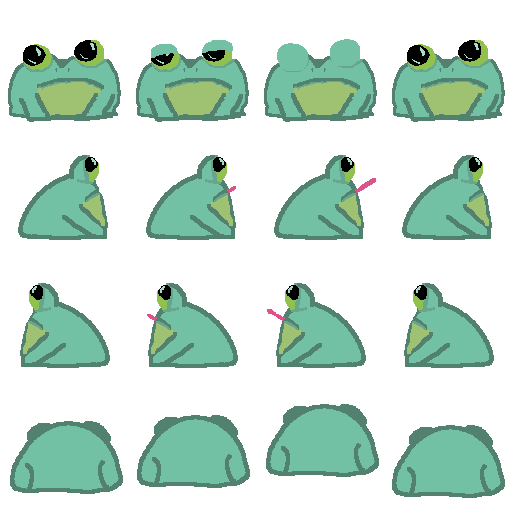
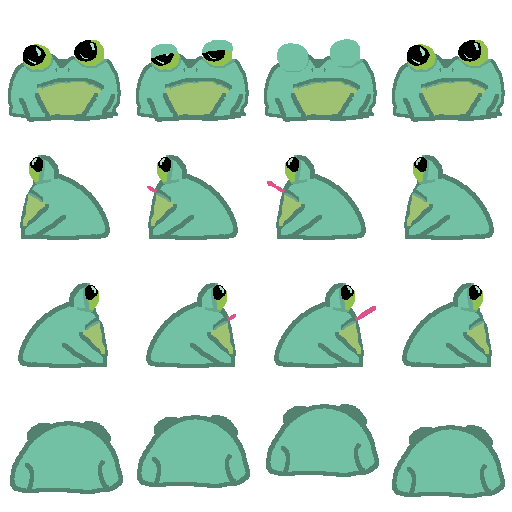
balanced arctic

diff --git a/src/core/lab/GenomeMaker.java b/src/core/lab/GenomeMaker.java
@@ -1,5 +1,6 @@
 package core.lab;
 
+import core.Game;
 import core.Main;
 import core.buttons.Button;
 import core.ecosystems.general.Organism;
@@ -20,7 +21,7 @@ public class GenomeMaker extends LabScreen {
     {
         super();
         machineButton = new LabMachineButton((int)(Main.getScreenWidth()*.05f), (int)(Main.getScreenHeight()*.3f),
-                Images.genomeMaker.getScaledCopy((int)(Main.getScreenWidth()*.2f), (int)(Main.getScreenWidth()*.2)));
+                Images.genomeMaker.getScaledCopy((int)(Main.getScreenWidth()*.2f), (int)(Main.getScreenWidth()*.2)), 1);
         screenButtons = new ArrayList<Button>();
         id = 1;
     }
@@ -40,8 +41,8 @@ public class GenomeMaker extends LabScreen {
             g.setColor(Color.black);
             g.setFont(Fonts.big);
             g.drawString("GENOME MAKER", x+Main.getScreenWidth()*.11f, y+Main.getScreenHeight()*.12f);
-            g.drawString("Pick the Genome of an Organism to Clone!", x+Main.getScreenWidth()*.11f, y+Main.getScreenHeight()*.17f);
-
+            g.drawString("Purchase Genome to Clone", x+Main.getScreenWidth()*.11f, y+Main.getScreenHeight()*.17f);
+            g.drawString("Money "+ Game.getCurrentShop().getMoney(), x+Main.getScreenWidth()*.11f, y+Main.getScreenHeight()*.22f);
 
 
             g.setLineWidth(3);
@@ -58,9 +59,9 @@ public class GenomeMaker extends LabScreen {
                     g.setFont(Fonts.medium);
                     g.drawString(b.getName().substring(2) +" genome",x + Main.getScreenWidth()*.125f, Main.getScreenHeight()*.47f);
                     int letterW = Fonts.medium.getWidth("G");
-                    //g.drawString(segments[screenButtons.indexOf(b)].substring(0, 1+(int)((width - Main.getScreenWidth()*.25f) /letterW)),
-                    //        x + Main.getScreenWidth()*.125f,
-                    //        y+ Main.getScreenHeight() *.5f);
+                    g.drawString(segments[screenButtons.indexOf(b)].substring(0, 1+(int)((width - Main.getScreenWidth()*.25f) /letterW)),
+                            x + Main.getScreenWidth()*.125f,
+                            y+ Main.getScreenHeight() *.5f);
                 }
             }
 
@@ -103,9 +104,12 @@ public class GenomeMaker extends LabScreen {
         {
             for(Button b: screenButtons)
             {
-                if (b.isMouseOver(x,y))
+                Class<? extends Organism> o = Lab.getAvailableOrganisms().get(screenButtons.indexOf(b));
+                int cost = Lab.getOrganism(o).getCostOfGenome();
+                if (b.isMouseOver(x,y) && Game.getCurrentShop().hasMoney(cost))
                 {
                     Lab.addGenome(new Genome(Lab.getAvailableOrganisms().get(screenButtons.indexOf(b))));
+                    Game.getCurrentShop().removeMoney(cost);
                 }
             }
         }

diff --git a/src/core/setup/Images.java b/src/core/setup/Images.java
@@ -44,6 +44,7 @@ public class Images {
     public static SpriteSheet polarBear;
     public static SpriteSheet walrus;
     public static SpriteSheet lemming;
+    public static SpriteSheet compionMoss;
     // CORAL REEF
     public static Image damagedCoral;
     public static Image coral;
@@ -122,6 +123,7 @@ public class Images {
                 polarBear =new SpriteSheet( (new Image("res/game/arctic/animals/polarBear.png")), 280, 280);
                 walrus =new SpriteSheet( (new Image("res/game/arctic/animals/walrus.png")), 128, 128);
                 lemming =new SpriteSheet( (new Image("res/game/arctic/animals/lemming.png")), 256, 256);
+                compionMoss = new SpriteSheet("res/game/arctic/animals/compionMoss.png",96,96);
                 //other
                 cloudSheet = new SpriteSheet((new Image("res/game/arctic/cloud.png")), 128, 128);
 
@@ -153,9 +155,9 @@ public class Images {
             drone = new Image("res/game/rainforest/drone.png");
             fire = new Image("res/game/rainforest/fire.png");
             ranger = new SpriteSheet("res/game/rainforest/ranger.png", 108, 108);
-            frog = new SpriteSheet("res/game/rainforest/frog.png", 108, 108);
-            jaguar = new SpriteSheet("res/game/rainforest/frog.png", 108, 108);
-            parrot = new SpriteSheet("res/game/rainforest/frog.png", 108, 108);
+            frog = new SpriteSheet("res/game/rainforest/frog.png", 128, 128);
+            jaguar = new SpriteSheet("res/game/rainforest/frog.png", 128, 128);
+            parrot = new SpriteSheet("res/game/rainforest/frog.png", 128, 128);
             soilEnrichmentMachine = new Image("res/game/rainforest/soilEnrichmentMachine.png");
             // LAB
             labBackground = new Image("res/lab/lab.png");

diff --git a/src/core/lab/organismMaker/CloneProgress.java b/src/core/lab/organismMaker/CloneProgress.java
@@ -36,13 +36,13 @@ public class CloneProgress {
     {
         //progressBar
         g.setColor(Color.black);
-        g.fillRect(Main.getScreenWidth()*.23f, LabScreen.getScreenY()+ Main.getScreenHeight()*.21f + myIndex*Main.getScreenHeight()*.15f
-                , Main.getScreenWidth()*.37f, Main.getScreenHeight()*.12f);
+        g.fillRect(LabScreen.getScreenX()+Main.getScreenWidth()*.11f, LabScreen.getScreenY()+ Main.getScreenHeight()*.21f + myIndex*Main.getScreenHeight()*.15f
+                , Main.getScreenWidth()*.43f, Main.getScreenHeight()*.12f);
         g.setColor(Color.cyan);
-        g.fillRect(Main.getScreenWidth()*.23f, LabScreen.getScreenY() + Main.getScreenHeight()*.21f + myIndex*Main.getScreenHeight()*.15f
-                , Main.getScreenWidth()*.37f*(totalTime*1f/maxTime), Main.getScreenHeight()*.12f);
+        g.fillRect(LabScreen.getScreenX()+Main.getScreenWidth()*.11f, LabScreen.getScreenY() + Main.getScreenHeight()*.21f + myIndex*Main.getScreenHeight()*.15f
+                , Main.getScreenWidth()*.43f*(totalTime*1f/maxTime), Main.getScreenHeight()*.12f);
         g.setColor(Color.white); g.setFont(Fonts.medium);
-        g.drawString(""+totalTime+"/ "+maxTime+": "+isTiming+Lab.getOrganismName(myGenome.getOrganism()), Main.getScreenWidth()*.28f, LabScreen.getScreenY()+ Main.getScreenHeight()*.21f + myIndex*Main.getScreenHeight()*.15f);
+        g.drawString("Creating "+Lab.getOrganismName(myGenome.getOrganism()), Main.getScreenWidth()*.28f, LabScreen.getScreenY()+ Main.getScreenHeight()*.21f + myIndex*Main.getScreenHeight()*.15f);
 
         if (timerOrEcosystem != null)
         {

diff --git a/src/core/ecosystems/rainforest/buildings/Ranger.java b/src/core/ecosystems/rainforest/buildings/Ranger.java
@@ -28,7 +28,6 @@ public class Ranger extends Building {
     private SpriteSheet sprite;
     public Ranger() {
         super();
-        myImage = Images.ranger.getSubImage(0, 0, 108, 108);
         sprite = Images.ranger;
         myImage = sprite.getSubImage(0, 0);
         name = "Ranger";
@@ -62,6 +61,9 @@ public class Ranger extends Building {
     }
 
     public void move() {
+        if (timer % 15 == 0) {
+            frame = (frame + 1) % 4;
+        }
         if (timer == 0) {
             if (futureCell != null) {
                 //switch cell location if future cell is changed
@@ -101,13 +103,14 @@ public class Ranger extends Building {
 
     public void render(Graphics g)
     {
+
         float width = myImage.getWidth();
         float height = myImage.getHeight();
         Image adjusted = myImage.getScaledCopy(Cell.getWidth()*cellWidth, (int)(height/width*Cell.getWidth()* cellWidth));
 //        g.drawImage(adjusted, x, y + Cell.getHeight() - adjusted.getHeight());
         g.drawImage(sprite.getSubImage(0, frame).getScaledCopy(Cell.getWidth(), Cell.getHeight()), x, y + Cell.getHeight() - adjusted.getHeight());
         if (grid != null) {
-            g.drawString("" + forwardIsClear(grid), x, y);
+            g.drawString("" + frame, x, y);
         }
 
     }

diff --git a/src/core/ecosystems/farm/tasks/PlantTenVariedPlants.java b/src/core/ecosystems/farm/tasks/PlantTenVariedPlants.java
@@ -2,23 +2,34 @@ package core.ecosystems.farm.tasks;
 
 import core.ecosystems.Grid;
 import core.ecosystems.farm.FarmGrid;
+import core.ecosystems.farm.animals.PluroCultureCrop;
+import core.ecosystems.general.Plant;
 import core.ecosystems.tasks.Task;
 
 public class PlantTenVariedPlants extends Task {
     public PlantTenVariedPlants(String name, Grid grid) {
         super(name, grid);
-        moneyValue = 300;
+        moneyValue = 350;
     }
 
     @Override
     public int getPercentDone() {
-        int num = ((FarmGrid)(grid)).getNumAllTimePluro();
-        if (num<= 10)
+        int num = 0;
+        FarmGrid fgrid = (FarmGrid)grid;
+        for (Plant p: fgrid.getPlants())
         {
-            return (int)(num*1f/10* 100);
+            if (p instanceof PluroCultureCrop)
+            {
+                num++;
+            }
+        }
+
+        if (num<= 60)
+        {
+            return (int)((float)num/60* 100);
         }
         else {
-            return 100;
+            return 60;
         }
     }
 

diff --git a/src/core/ecosystems/Shop.java b/src/core/ecosystems/Shop.java
@@ -21,12 +21,11 @@ abstract public class Shop {
     private final static int margin = (int)(Main.getScreenWidth() * .04f);
     private final static int buffer = (int)( 260/1920f * Main.getScreenWidth() ) ;
     protected ArrayList<Item> items;
-    //protected OrganismItem organismItem;
     protected ArrayList<OrganismItem> organismItems;
     protected Grid grid;
     protected GameContainer gc;
 
-    protected static int money;
+    protected int money;
 
     public Shop(Grid g, GameContainer gc) {
         items = new ArrayList<>();
@@ -40,9 +39,14 @@ abstract public class Shop {
     abstract public void setItems();
 
     public boolean hasMoney(int value){ return value<= money;}
+    public int getMoney(){ return money;}
     public void addMoney(int value)
     {
         money += value;
+    }
+    public void removeMoney(int value)
+    {
+        money -= value;
     }
     public void addOrganism(Class<? extends Organism> o)
     {

diff --git a/src/core/ecosystems/arctic/buildings/IcePump.java b/src/core/ecosystems/arctic/buildings/IcePump.java
@@ -39,9 +39,14 @@ public class IcePump extends Building {
                 time = 0;
                 ArrayList<Cell> cells = getSurroundingCells(stage);
                 for (Cell cell : cells) {
-                    ArcticCell c = (ArcticCell)cell;
-                    c.setToIce();
-                    cell.setImage(Images.arcticCells.getSubImage(0,4));
+                    if (!((ArcticCell)cell).isIce())
+                    {
+                        ArcticCell c = (ArcticCell)cell;
+                        c.setToIce();
+                        cell.setImage(Images.arcticCells.getSubImage(0,4));
+                        Game.getCurrentShop().addMoney(15);
+                    }
+
                 }
                 iceCreated += cells.size();
                 stage++;

diff --git a/src/core/lab/LabMachineButton.java b/src/core/lab/LabMachineButton.java
@@ -1,14 +1,18 @@
 package core.lab;
 
 import core.buttons.Button;
+import core.setup.Fonts;
+import org.newdawn.slick.Color;
 import org.newdawn.slick.Graphics;
 import org.newdawn.slick.Image;
 
 public class LabMachineButton extends Button {
     boolean open;
+    int order;
 
-    public LabMachineButton (int x, int y, Image i) {
+    public LabMachineButton (int x, int y, Image i, int order) {
         super(x,y,i);
+        this.order= order;
     }
 
     public void render(Graphics g)
@@ -18,6 +22,8 @@ public class LabMachineButton extends Button {
         {
             g.drawImage(image,x,y);
         }
+        g.setColor(Color.white); g.setFont(Fonts.big);
+        g.drawString(""+order, x,y);
 
     }
 

diff --git a/src/core/lab/Lab.java b/src/core/lab/Lab.java
@@ -1,6 +1,7 @@
 package core.lab;
 
 import core.Main;
+import core.ecosystems.arctic.animals.CompionMoss;
 import core.ecosystems.arctic.animals.Lemming;
 import core.ecosystems.arctic.animals.PolarBear;
 import core.ecosystems.arctic.animals.Walrus;
@@ -273,7 +274,7 @@ public class Lab extends BasicGameState {
             biomeOrganisms.add(Lemming.class);
 
             //makes new plant button
-            biomeOrganisms.add(Plant.class);
+            biomeOrganisms.add(CompionMoss.class);
         }
         else if (biome == 1)
         {
@@ -299,5 +300,6 @@ public class Lab extends BasicGameState {
         {
         }
         return biomeOrganisms;
+
     }
 }

diff --git a/src/core/ecosystems/general/Plant.java b/src/core/ecosystems/general/Plant.java
@@ -2,6 +2,7 @@ package core.ecosystems.general;
 
 import core.Main;
 import core.ecosystems.Grid;
+import core.setup.Fonts;
 import core.setup.Images;
 import org.lwjgl.input.Mouse;
 import org.newdawn.slick.Color;
@@ -59,6 +60,7 @@ public class Plant extends Organism{
         g.drawImage(image.getScaledCopy((float)cell.getWidth()/image.getWidth()),  x,  y);
         if(cell.mouseOver(Mouse.getX(), Main.getScreenHeight() - Mouse.getY()))
         {
+            g.setColor(Color.white); g.setFont(Fonts.small);
             g.drawString(name, x,cell.getY());
         }
 

diff --git a/src/core/ecosystems/farm/Farm.java b/src/core/ecosystems/farm/Farm.java
@@ -21,7 +21,7 @@ public class Farm extends Ecosystem {
         PopupLoader.loadPopups(ID);
         //add new tasks
         taskManager.addTask(new AddedGreenhouse("Add 4 Greenhouses", grid) );
-        taskManager.addTask(new PlantTenVariedPlants("Add 10 bio-diverse plants", grid));
+        taskManager.addTask(new PlantTenVariedPlants("Add 60 bio-diverse plants", grid));
         taskManager.addTask(new RemoveMonocultures("Remove 50 monoculture plants", grid));
         taskManager.addTask(new WaterAllPlants("Water the full farm", grid));
     }

diff --git a/src/core/lab/organismMaker/OrganismMaker.java b/src/core/lab/organismMaker/OrganismMaker.java
@@ -19,7 +19,7 @@ public class OrganismMaker extends LabScreen {
     public OrganismMaker(){
         super();
         machineButton = new LabMachineButton((int)(Main.getScreenWidth()*.6f), (int)(Main.getScreenHeight()*.04f),
-                Images.organismMaker.getScaledCopy((int)(Main.getScreenWidth()*.1f)*3, (int)(Main.getScreenWidth()*.1)*6));
+                Images.organismMaker.getScaledCopy((int)(Main.getScreenWidth()*.1f)*3, (int)(Main.getScreenWidth()*.1)*6),3);
         cloneSlots = new CloneProgress[3];
         id = 3;
 
